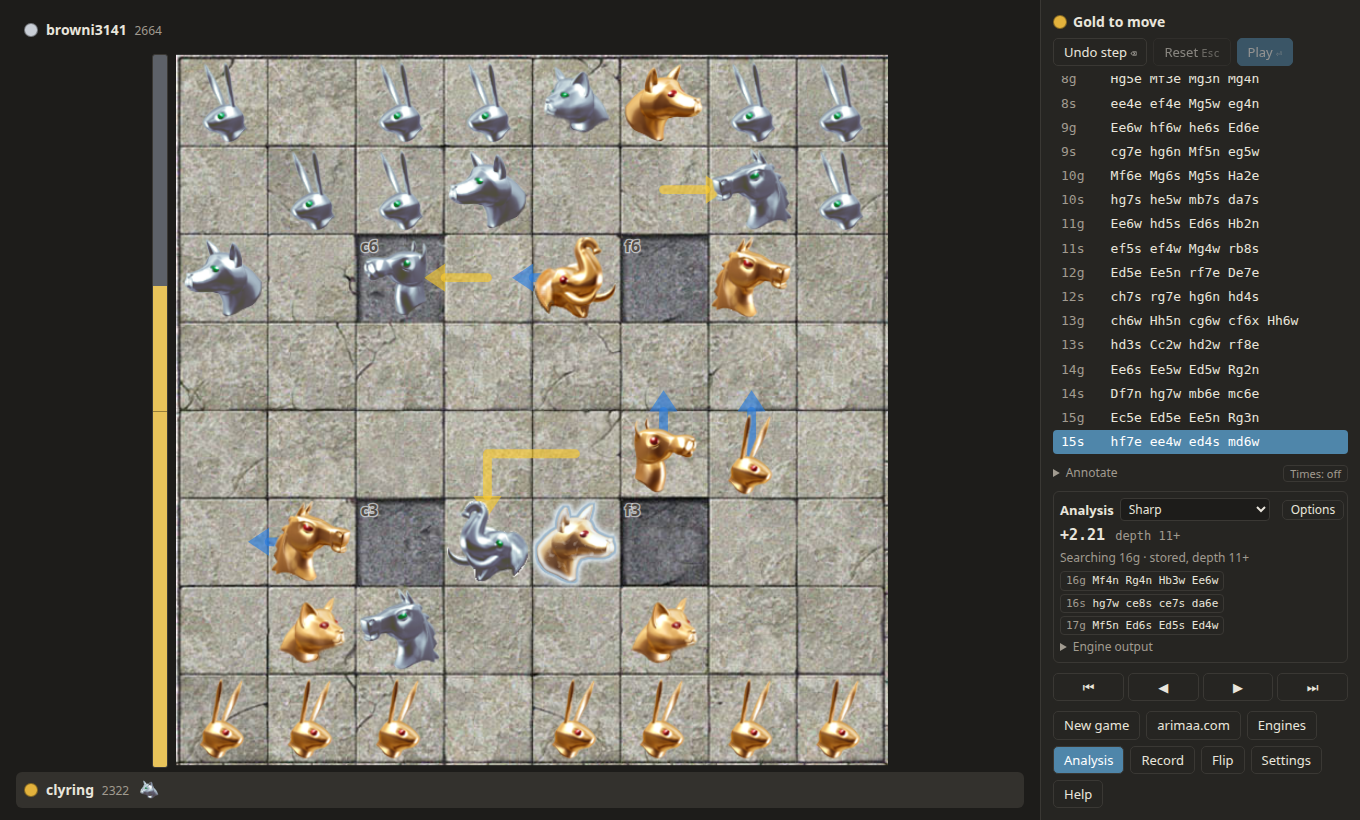
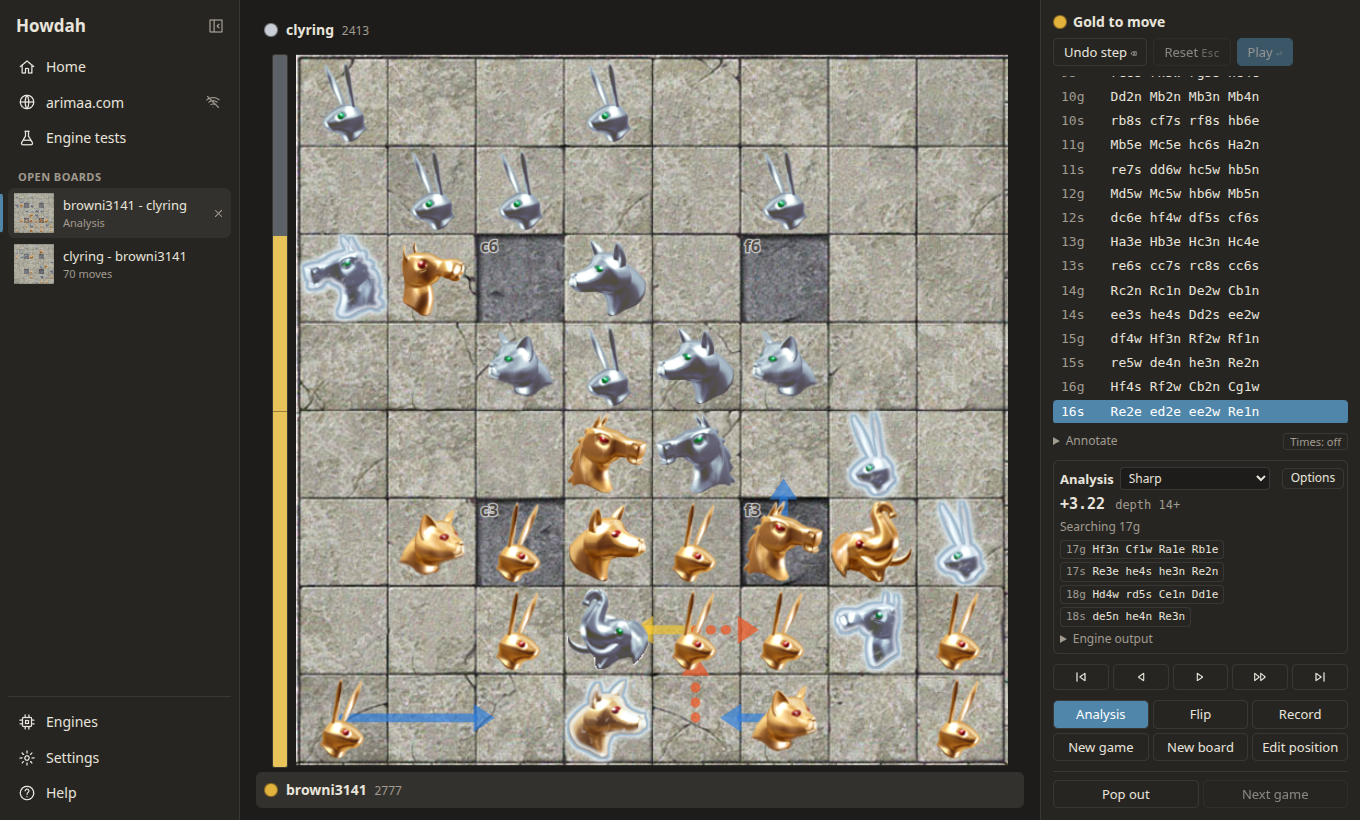
docs(readme): describe 0.2.0, with a new screenshot

diff --git a/README.md b/README.md
@@ -5,10 +5,10 @@
 Howdah is a desktop app for playing and studying
 [Arimaa](https://en.wikipedia.org/wiki/Arimaa). Play against engines on
 your own computer, analyse positions, keep annotated game records, and
-play or watch games on [arimaa.com](http://arimaa.com/). It runs on
+play, watch and chat on [arimaa.com](http://arimaa.com/). It runs on
 Windows, Linux and macOS.
 
-![Howdah analysing a game with Sharp: the board with the engine's best line drawn as arrows, the evaluation bar, the move list and the analysis panel](docs/images/screenshot.png)
+![Howdah's main window: a sidebar listing two open games, and one of them on its board with Sharp analysing it, showing the engine's best line drawn as arrows, the evaluation bar, the move list and the analysis panel](docs/images/screenshot.png)
 
 ## Features
 
@@ -22,7 +22,12 @@ Windows, Linux and macOS.
 - A move tree with variations, comments and move glyphs. Try a line
   anywhere in a game, and it's kept as a variation.
 - Load and copy game records in the PGN-style Arimaa format, including
-  games from the arimaa.com archive.
+  games from the arimaa.com archive. Going through a timed game shows
+  the clocks at each move.
+- Several games at once: each has a board in the main window, which can
+  pop out into a window of its own and dock back.
+- A position editor: set up any position, then analyse it or play from
+  it.
 - Clocks and time controls, sounds, board and piece themes, and light
   and dark colors.
 
@@ -31,7 +36,7 @@ Windows, Linux and macOS.
 - Play against an engine, or watch two engines play each other.
 - [Sharp](https://github.com/Janzert/arimaasharp) and
   [OpFor](https://github.com/Janzert/OpFor) can be installed from the
-  Engines dialog with a click, and kept up to date there. Any other
+  Engines panel with a click, and kept up to date there. Any other
   engine that speaks [AEI](https://github.com/Janzert/AEI) can be added
   by its program path or a manifest.
 - Set an engine's options for every game, for one game, or for analysis.
@@ -42,11 +47,21 @@ Windows, Linux and macOS.
   game, showing its evaluation, its best line on the board, and its
   output. Click a line to add it to the game as a variation.
 
+**Engine tests**
+
+- For engine developers: play two engines against each other in many
+  games, several at once, until an SPRT decides whether a change is
+  better. Tests queue up and carry on after a restart, and each game can
+  be followed live. `howdah-tourney` does the same from the command line.
+
 **arimaa.com**
 
 - Log in to the gameroom to watch live games or open finished ones.
 - Play: create and join games, rated or unrated, live or postal, with
-  invitations, chat and takebacks.
+  invitations, chat and takebacks. See who's online and invite them, or
+  start a game with one of the server's bots.
+- The gameroom's chat room and its archive, and its announcements.
+- Solve arimaa.com's puzzles.
 - Games carry on through network drops and the computer sleeping, and
   you can return to a game in progress.
 
@@ -95,14 +110,15 @@ has new versions, and [CHANGELOG.md](CHANGELOG.md) what changed.
 
 ## Getting started
 
-- **Play an engine:** open *Engines* and install Sharp or OpFor, then
-  start a *New game* with the engine on one side.
-- **Analyse:** turn on *Analysis* and pick an engine. It follows the
-  position as you step through the game.
-- **arimaa.com:** click *arimaa.com* and log in with your gameroom
-  account to play, watch, or start games.
-- **Records:** *Record* loads a game pasted in or opened from a file,
-  and gives the current game's record to copy.
+- **Play an engine:** install Sharp and OpFor from *Home* (or from
+  *Engines*), then start a *New game* with an engine on one side.
+- **Analyse:** on a board, turn on *Analysis* and pick an engine. It
+  follows the position as you step through the game. *Analysis board*
+  on *Home* starts from an empty one.
+- **arimaa.com:** click *arimaa.com* in the sidebar and log in with your
+  gameroom account to play, watch, chat or start games.
+- **Records:** *Open record* on *Home* loads a game pasted in or opened
+  from a file, and a board's *Record* gives its game's record to copy.
 - Press `?` for the keyboard shortcuts.
 
 ## Building from source
@@ -170,6 +186,7 @@ CI runs these on Linux, Windows and macOS and builds the installers.
 - `crates/howdah-gameroom`: the arimaa.com gameroom client.
 - `crates/howdah-render`: draws a position as a PNG or JPEG with the
   classic themes (`cargo run -p howdah-render -- POSITION OUT.png`).
+- `crates/howdah-tourney`: the engine test runner and its daemon.
 - `app/`: the Tauri application. `src-tauri/` is the Rust shell and `src/`
   is the Svelte frontend.
 - `docs/`: design notes (analysis, variations, engines, the gameroom,
